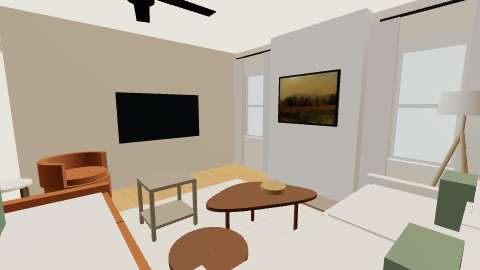
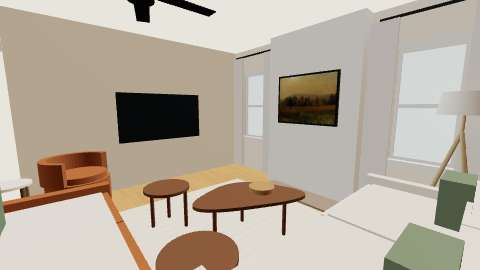
Fix primary window copy and coordinate owned RH tables with living picks

Changed region(s): [[0.2812, 0.6519, 0.6875, 1.0]]

diff --git a/ROUND17-A-NOTES.md b/ROUND17-A-NOTES.md
@@ -1,0 +1,23 @@
+# Round 17 A — primary and living
+
+## Delivered
+
+1. Window-clearance copy is regenerated from each evaluated bed and its actual head-wall window, after variant geometry is final. The RH primary winner ends at **84.1875 in**, against opening start **85.1 in**, so the nominal margin is **0.9125 in**, shown consistently as **0.9 in**. The unshifted non-RH alternative correctly retains its own **1.4-in** rounded margin; it is not globally replaced. Expanded phone notes show the final rounded endpoint **84.2 in**, one margin and the trim/setback tape condition. The new regression scans full visible clearance prose for all layouts and fixtures, deliberately rejects a stale-note injection, and changes the model to prove the summary regenerates.
+2. Primary rank 1 keeps both owned RH tables. All three living Best picks instead draw and evaluate **two 19.5-in round P055 side tables**, with the second explicitly labelled as replacing the RH table now in primary. The five room winners' owned-shopping quantities now fit the household inventory; the regression checks every owned ID, not only RH, and deliberately rejects duplicate use. The **$149** procurement moves out of primary into living: primary **$2,931.21 → $2,782.21**; living **$1,175.32 → $1,324.32** (all three Best picks, before builder B's unrelated product edits). A separate RH-retained living alternative is under More options and explicitly requires the non-RH primary bedside layout.
+3. Best-effort approach improvement: in the TV-centred living layouts, coffee table moves from **(118,79) to (114,76)** and the adjacent round side table from **(96,100) to (93,100)**. Both sofa local approaches improve **11 → 14 in estimated walking width**; best group entry remains **25 in**, all seven drinks pass the unchanged about-18-in/**18.5-in** threshold (maximum **18.42 in**), and occupied-head sightlines remain clear. The **15-in target is not met** and the short trade-off plainly discloses it. A further half-inch north move gives 15-in approaches but loses drink coverage (**18.89 / 18.65 in**). Additional real trials moving tables to the sofa sides or removing/reallocating the stump produced worse local access (**0.5–9 in**); no inflated pass is claimed. The direct no-swivel option gets the same 14-in improvement.
+
+## Verification
+
+- `npm run test:quick`: **PASS**, 15 stages, **81.66 s**; Round 17 A adds **75** assertions, including negative controls.
+- Full `npm test`: **PASS**, **24 stages in 549.05 s**, exit 0. Exactly one full invocation; build, all unit stages and all nine browser stages passed. Log retained in scratch as `round17/a-full.log`. The task-owned port-8781 server was stopped after capture.
+- Dedicated headless-only phone check: **412 × 915, DPR 2, mobile/touch**, Chrome/SwiftShader. Living and primary rank-1 card, plan, listing and expanded notes/shopping captured. **Zero page exceptions, zero horizontal overflow**, and browser assertions confirm primary visible text has **0.9 in**, no stale **1.4 in**, and living has the **Qty 2 / $149** replacement note. Visual inspection succeeded on both listings, plans and notes, including the cropped living seating group. The living plan shows two round bought tables and the 14-in label; primary listing shows the open RH bedside silhouette. Cameras themselves were not changed.
+- Captures and `phone-audit.json`: `PROJECT/prototype/renders/round-17/a/`.
+- Initial capture attempt coincided with the full build temporarily serving baseline owner pages and timed out waiting for the enhanced app. After build output completed, the same capture path passed. No product or geometry failure was hidden.
+
+## Files / merge
+
+- New `tools/round17-a.mjs`, `tools/round17-a-test.mjs`, `tools/round17-a-capture.mjs` and this note.
+- Pipeline hooks: `tools/rental-build.mjs`, `tools/rental-presentation.mjs`.
+- Test registration: `tools/test-suite.mjs`; two obsolete primary procurement expectations updated in `tools/round16-b-test.mjs`.
+- Actual rendered living listing cache/manifest updated under `data/listing-images/`, including the explicitly conditional RH-retained alternative. Parent should rebuild the merged pipeline.
+- No council source proposals edited. No guest labels, kitchen scene or purchase destinations touched. Generated `docs/` and `data/owner-pages/` are excluded from the commit.
